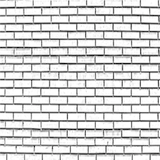
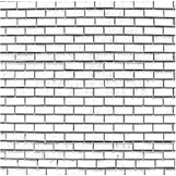
brick wall upgrades and image files renamed for readability

diff --git a/src/components/theater/Marquee.js b/src/components/theater/Marquee.js
@@ -5,35 +5,35 @@ export default function Marquee() {
   return (
     <>
       {/* Sky  */}
-      <div className='h-1/10 bg-gradient-to-t from-yellow-100 to-sky-950'>
+      <div className='h-1/10 bg-gradient-to-t from-yellow-100 to-[#2c6277]'>
         <div
           className='shadow-dim my-font-marquee-title text-shadow-neon-orange fixed z-[21] h-[9.5%] w-[54%] cursor-default rounded-t-lg border-b-2 border-[#f2f28b] bg-[#3A2A00] text-center text-7xl text-[#ff800d]'
           style={{ top: '15%', left: '23%' }}>
           Michael Beebe
         </div>
         <div
-          className='pattern-1 fixed z-[22] h-[34%] w-[2.5em] rounded-b-xl rounded-tl-3xl rounded-tr-xl'
+          className='marquee-pillar-bg fixed z-[22] h-[34%] w-[2.5em] rounded-b-xl rounded-tl-3xl rounded-tr-xl'
           style={{ top: '19%', left: '0%' }}></div>
         <div
-          className='pattern-1 fixed z-[22] h-[38%] w-[3.5em] rounded-b-xl rounded-tl-3xl rounded-tr-xl'
+          className='marquee-pillar-bg fixed z-[22] h-[38%] w-[3.5em] rounded-b-xl rounded-tl-3xl rounded-tr-xl'
           style={{ top: '14%', left: '23%' }}></div>
         <div className='bg-secondary w-1/10 h-1/10 fixed rounded-t-full' style={{ left: '45%', top: '0%' }}></div>
         <div
           className='bg-secondary fixed z-20 h-[14.5%] w-1/6 border-2 border-white'
           style={{ top: '10%', left: '41.667%' }}></div>
         <div
-          className='pattern-1 shadow-dim fixed z-[22] h-[38%] w-[3.5em] rounded-b-xl rounded-tl-xl rounded-tr-3xl'
+          className='marquee-pillar-bg shadow-dim fixed z-[22] h-[38%] w-[3.5em] rounded-b-xl rounded-tl-xl rounded-tr-3xl'
           style={{ top: '14%', right: '23%' }}></div>
         <div
-          className='pattern-1 shadow-dim fixed z-[22] h-[34%] w-[2.5em] rounded-b-xl rounded-tl-xl rounded-tr-3xl'
+          className='marquee-pillar-bg shadow-dim fixed z-[22] h-[34%] w-[2.5em] rounded-b-xl rounded-tl-xl rounded-tr-3xl'
           style={{ top: '19%', right: '0%' }}></div>
       </div>
 
-      <div className='bg-brick-wall relative z-10 flex h-2/5 w-screen columns-3 items-end space-x-0 border-t-8 border-[#c7c7a3] border-opacity-90 bg-repeat px-4 text-center'>
+      <div className='bg-brick-wall relative z-10 flex h-2/5 w-screen columns-3 items-end space-x-0 border-t-8 border-[#eee3bd] border-opacity-40 bg-repeat px-4 text-center'>
         {/* Marquee Left */}
         <div className='bg-base-300 shadow-neon-top h-2/3 w-1/4 origin-top-right -skew-y-2'>
           <MarqueeMain text={'About'} />
-          <div className='bg-primary pattern-1-border shadow-neon-top h-3/5 w-full border-b-[1rem] p-4'>2</div>
+          <div className='bg-primary string-light-border shadow-neon-top h-3/5 w-full border-b-[1rem] p-4'>2</div>
         </div>
 
         {/* Marquee Center */}
@@ -41,7 +41,7 @@ export default function Marquee() {
           <div className='h-full w-full'>
             <MarqueeMain text={'Now Playing...'} />
 
-            <div className='bg-primary pattern-1-border shadow-neon-top h-3/5 w-full border-b-[1rem] p-4'>
+            <div className='bg-primary string-light-border shadow-neon-top h-3/5 w-full border-b-[1rem] p-4'>
               RESUME, ETC
             </div>
           </div>
@@ -51,7 +51,7 @@ export default function Marquee() {
         <div className='bg-clip-border-marquee-r shadow-neon-top h-2/3 w-1/4 origin-top-left skew-y-2'>
           <MarqueeMain text={'Projects'} />
 
-          <div className='bg-primary text-primary-content shadow-neon-top pattern-1-border h-3/5 w-full rounded-br-2xl border-b-[1rem] p-4'>
+          <div className='bg-primary text-primary-content shadow-neon-top string-light-border h-3/5 w-full rounded-br-2xl border-b-[1rem] p-4'>
             2
           </div>
         </div>

diff --git a/src/index.css b/src/index.css
@@ -108,7 +108,7 @@
       border-image: linear-gradient(0deg, #0000ff 0%, #90f1ff 50%) 1;
     }
     .brick-wall-border {
-      border-image: url('/src/static/imgs/BrickWallSolid.png') 44 round;
+      border-image: url('/src/static/imgs/BrickWallSolidYellow.png') 225 round;
     }
     .marquee-light-blue-x,
     .marquee-light-blue-y,
@@ -120,20 +120,20 @@
       border-style: solid;
     }
 
-    .pattern-1-border {
-      border-image: url('/src/static/imgs/Pat3.png') 200 round;
+    .string-light-border {
+      border-image: url('/src/static/imgs/StringLight.png') 200 round;
       border-style: solid;
     }
 
     /* MARK: Background Images */
-    .marque-lights-green-bg {
-      background-image: url('/src/static/imgs/MarqueeBgGreen.png');
+    .neon-green-light-bg {
+      background-image: url('/src/static/imgs/NeonGreenLight.png');
       background-size: 1.5vh;
       background-position-y: -0.1vh;
     }
 
-    .pattern-1 {
-      background-image: url('/src/static/imgs/Pattern2.5.png');
+    .marquee-pillar-bg {
+      background-image: url('/src/static/imgs/MarqueePillar.png');
       background-size: 100%;
     }
   }

diff --git a/src/components/theater/MarqueeMain.js b/src/components/theater/MarqueeMain.js
@@ -2,7 +2,7 @@ import React from 'react';
 
 export default function MarqueeMain(props) {
   return (
-    <div className='marque-lights-green-bg text-accent-content shadow-dim-in flex h-2/5 w-full items-center justify-center border-t-2 border-[#f2f28b]'>
+    <div className='neon-green-light-bg text-accent-content shadow-dim-in flex h-2/5 w-full items-center justify-center border-t-2 border-[#f2f28b]'>
       <button className='my-font-marquee-neon text-shadow-neon-blue hover:text-shadow-neon-blue-intense h-fit font-bold hover:font-normal'>
         <span className='sm:text-3xl md:text-4xl lg:text-5xl'>{props.text}</span>
       </button>

diff --git a/src/components/theater/MarqueeDetails.js b/src/components/theater/MarqueeDetails.js
@@ -2,7 +2,7 @@ import React from 'react';
 
 export default function MarqueeDetails(props) {
   return (
-    <div className='bg-primary text-primary-content shadow-neon-top pattern-1-border h-3/5 w-full rounded-br-2xl border-b-[1rem] p-4'>
+    <div className='bg-primary text-primary-content shadow-neon-top string-light-border h-3/5 w-full rounded-br-2xl border-b-[1rem] p-4'>
       2
     </div>
   );

diff --git a/src/components/theater/TheaterFacade.js b/src/components/theater/TheaterFacade.js
@@ -4,7 +4,7 @@ import TheaterEntrance from './TheaterEntrance.js';
 
 export default function TheaterFacade() {
   return (
-    <div className='h-screen bg-[#ccc2bb]'>
+    <div className='h-screen bg-[#eee3bd]'>
       <Marquee />
       <TheaterEntrance />
     </div>
